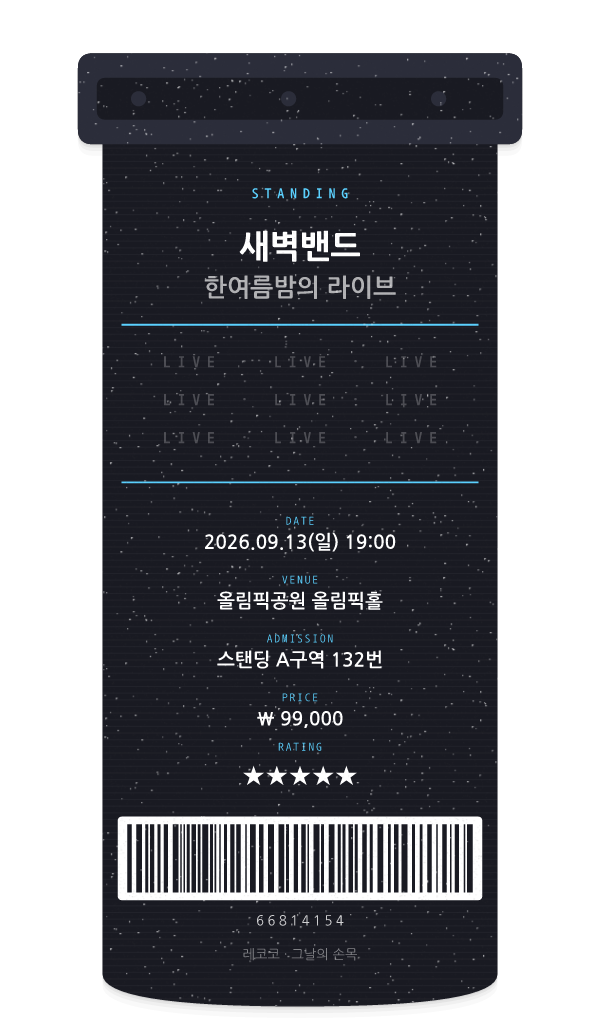
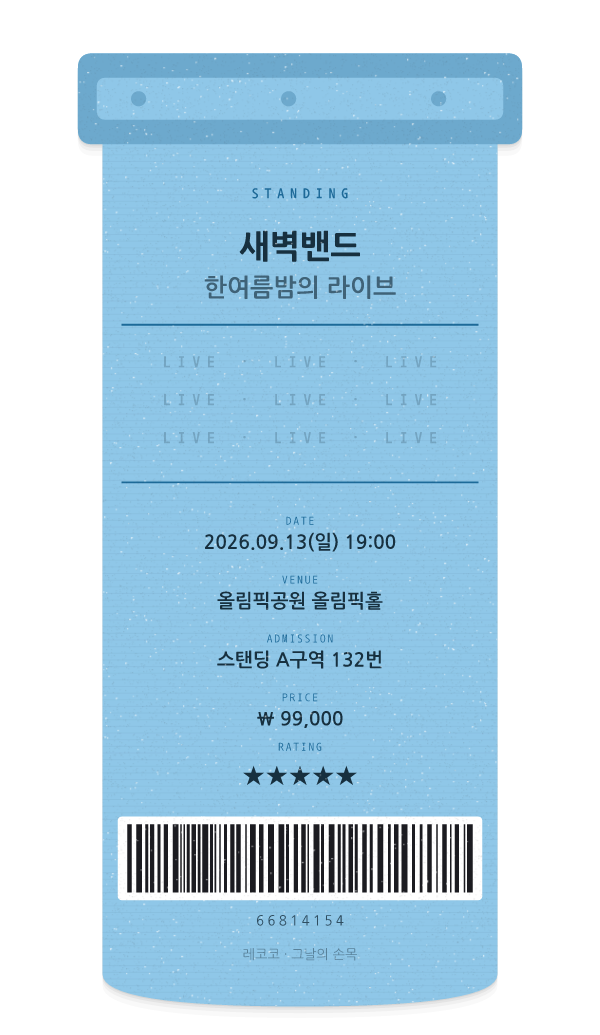
팔찌 티켓에 하늘색 추가 (6색)

diff --git a/design/tools/preview/samples.js b/design/tools/preview/samples.js
@@ -141,6 +141,9 @@ module.exports = () => {
     { name: '색_팔찌_분홍', record: { id: 'c-band-pink', createdAt: '2026-09-13T22:10:00', kind: 'concert', date: '2026-09-13', time: '19:00',
       title: '한여름밤의 라이브', artist: '새벽밴드', place: '올림픽공원 올림픽홀', seat: '스탠딩 A구역 132번', people: 2, price: 99000, stars: 5,
       memo: '앙코르 세 곡.', photo: null, design: 'band', color: 'pink' }, px: 600 },
+    { name: '색_팔찌_하늘', record: { id: 'c-band-sky', createdAt: '2026-09-13T22:10:00', kind: 'concert', date: '2026-09-13', time: '19:00',
+      title: '한여름밤의 라이브', artist: '새벽밴드', place: '올림픽공원 올림픽홀', seat: '스탠딩 A구역 132번', people: 2, price: 99000, stars: 5,
+      memo: '앙코르 세 곡.', photo: null, design: 'band', color: 'sky' }, px: 600 },
     { name: '색_포토티켓_하늘', record: { id: 'c-kpop-sky', createdAt: '2026-09-13T22:10:00', kind: 'concert', date: '2026-09-13', time: '19:00',
       title: '월드투어 서울', artist: '달빛소년단', place: 'KSPO DOME', seat: '2층 F구역 7열 21번', people: 2, price: 154000, stars: 5,
       memo: '은박지 폭죽이 터졌다.', photo: null, design: 'kpop', color: 'sky' } },

diff --git a/app/src/lib/shop.ts b/app/src/lib/shop.ts
@@ -74,7 +74,7 @@ export const foodDesignUnlocked = (id: FoodDesign | undefined, owned: string[]) 
 /** 콘서트·공연전시가 같이 쓰는 모양: 한 번 사면 두 카테고리 모두에서 고를 수 있다 */
 const BOTH = ['concert', 'show'] as RecordKind[];
 const PHOTO_TICKET = { name: '포토 티켓', desc: '사진이 큼직하게 박힌 티켓 · 색 4가지', productId: 'recoco.theme.photo-ticket', price: 1000, kinds: BOTH };
-const WRIST_BAND = { name: '팔찌 티켓', desc: '공연장에서 채워주는 손목 팔찌 · 색 5가지', productId: 'recoco.theme.wristband', price: 1000, kinds: BOTH };
+const WRIST_BAND = { name: '팔찌 티켓', desc: '공연장에서 채워주는 손목 팔찌 · 색 6가지', productId: 'recoco.theme.wristband', price: 1000, kinds: BOTH };
 const RETRO_TICKET = { name: '레트로 티켓', desc: '크림 종이에 색 조각이 붙은 옛날 극장 티켓 · 색 5가지', productId: 'recoco.theme.retro', price: 1000, kinds: BOTH };
 
 export interface ConcertDesignItem {

diff --git a/app/src/templates/WristBand.tsx b/app/src/templates/WristBand.tsx
@@ -26,6 +26,7 @@ export const BAND_COLORS: Record<BandColor, { name: string; band: string; lock: 
   white: { name: '흰색', band: '#f4f2ec', lock: '#e2ded2', ink: '#26242a', accent: '#e2685c' },
   navy: { name: '남색', band: '#22335c', lock: '#172542', ink: '#ffffff', accent: '#7fd4ff' },
   pink: { name: '분홍', band: '#f2a0bd', lock: '#dd87a6', ink: '#3b1f2b', accent: '#8c3155' },
+  sky: { name: '하늘', band: '#8fc7e8', lock: '#6da9cd', ink: '#17303f', accent: '#1d6a99' },
 };
 
 export const BAND_COLOR_IDS = Object.keys(BAND_COLORS) as BandColor[];

diff --git a/app/src/types.ts b/app/src/types.ts
@@ -212,7 +212,7 @@ export interface ShowRecord extends BaseRecord {
 export type ConcertDesign = 'ticket' | 'plain' | 'retro' | 'band' | 'kpop';
 
 /** 팔찌 티켓 끈 색 */
-export type BandColor = 'black' | 'orange' | 'white' | 'navy' | 'pink';
+export type BandColor = 'black' | 'orange' | 'white' | 'navy' | 'pink' | 'sky';
 
 /** 포토 티켓 색 */
 export type PhotoColor = 'pink' | 'sky' | 'butter' | 'mint';

diff --git a/docs/유료화_아이디어.md b/docs/유료화_아이디어.md
@@ -39,7 +39,7 @@
 | 주문서 (무료) | 초록 · 먹색 · 남색 · 팥색 |
 | 집 모양 | 주황 · 빨강 · 분홍 · 파랑 · 초록 (고를 때 무작위로 하나 정해준다) |
 | 모눈종이 | 연두 · 하늘 · 분홍 · 회색 |
-| 팔찌 티켓 | 검정(라임 글씨) · 주황 · 흰색 · 남색 · 분홍 — 끈 바탕색이 바뀐다 |
+| 팔찌 티켓 | 검정(라임 글씨) · 주황 · 흰색 · 남색 · 분홍 · 하늘 — 끈 바탕색이 바뀐다 |
 | 포토 티켓 | 분홍 · 하늘 · 버터 · 민트 |
 | 별빛 티켓 | 파랑 · 보라 · 청록 · 와인 · 검정 (예전 이름 홀로그램 기록표. 무지개 띠는 2026-09-19 에 뺐다) |
 | 레트로 티켓 | 남색 · 숲 초록 · 버건디 · 세피아 · 먹색 (크림 종이는 그대로, 조각·포인트만 바뀜) |
